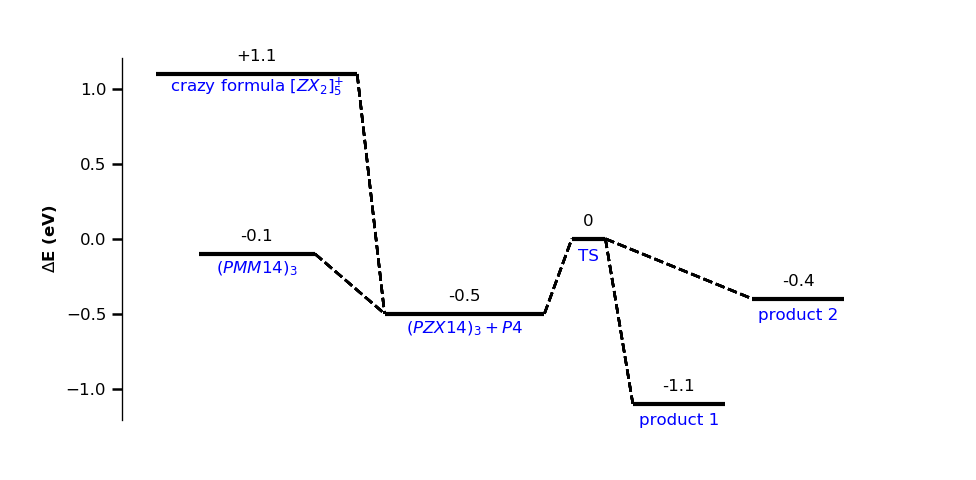
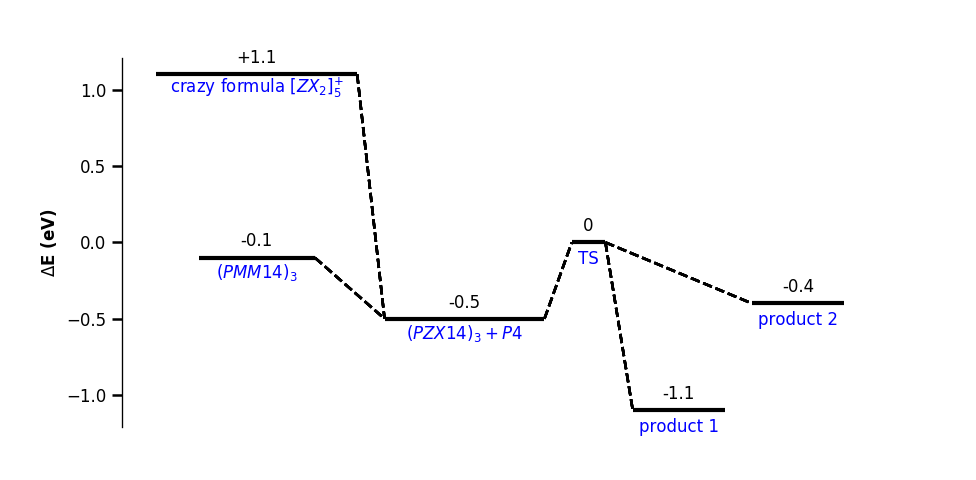
add dpi

diff --git a/reaction_pypaths.py b/reaction_pypaths.py
@@ -115,14 +115,16 @@ class Diagram:
             style = configs.links_style
         self.links.append(Link(level_id1, level_id2, color, width, style))
 
-    def plot(self):
+    def plot(self, output_file):
         """
         plot the diagram
-        returns the handle for plt.figure()
+
         """
         self._adjust_positions()
 
-        figure = plt.figure(figsize=[configs.plot_width, configs.plot_height])
+        figure = plt.figure(
+            figsize=[configs.plot_width, configs.plot_height], dpi=configs.plot_dpi
+        )
         diag = figure.add_subplot(1, 1, 1)
         diag.set_ylabel(
             configs.energy_axis_label,
@@ -194,7 +196,9 @@ class Diagram:
                     color=link.color,
                 )
                 diag.add_line(link_line)
-        return figure
+        if not output_file:
+            output_file = "output.png"
+        figure.savefig(output_file, dpi=configs.plot_dpi)
 
     def _adjust_positions(self):
         """

diff --git a/example.py b/example.py
@@ -18,4 +18,4 @@ energy_plot.add_link(transition_state, p1)
 energy_plot.add_link(transition_state, p2)
 
 # plot the diagram and save the final result to the file
-energy_plot.plot().savefig("output.png")
+energy_plot.plot("output.png")

diff --git a/configs.py b/configs.py
@@ -3,6 +3,8 @@ Configurations for the reaction_pypaths
 """
 plot_height = 4  # diagram height in inch
 
+plot_dpi = 120
+
 energy_axis_label = "$\Delta$E (eV)"
 energy_axis_label_fontsize = 10
 energy_axis_label_fontweight = "bold"

diff --git a/README.md b/README.md
@@ -32,7 +32,7 @@ energy_plot.add_link(TS, PD1)
 energy_plot.add_link(TS, PD2)
 
 # plot the diagram and save the final result to the file
-energy_plot.plot().savefig("output.png")
+energy_plot.plot("output.png")
 ```
 ![Sample diagram](https://github.com/MFTabriz/reaction_pypaths/raw/master/output.png)
 
